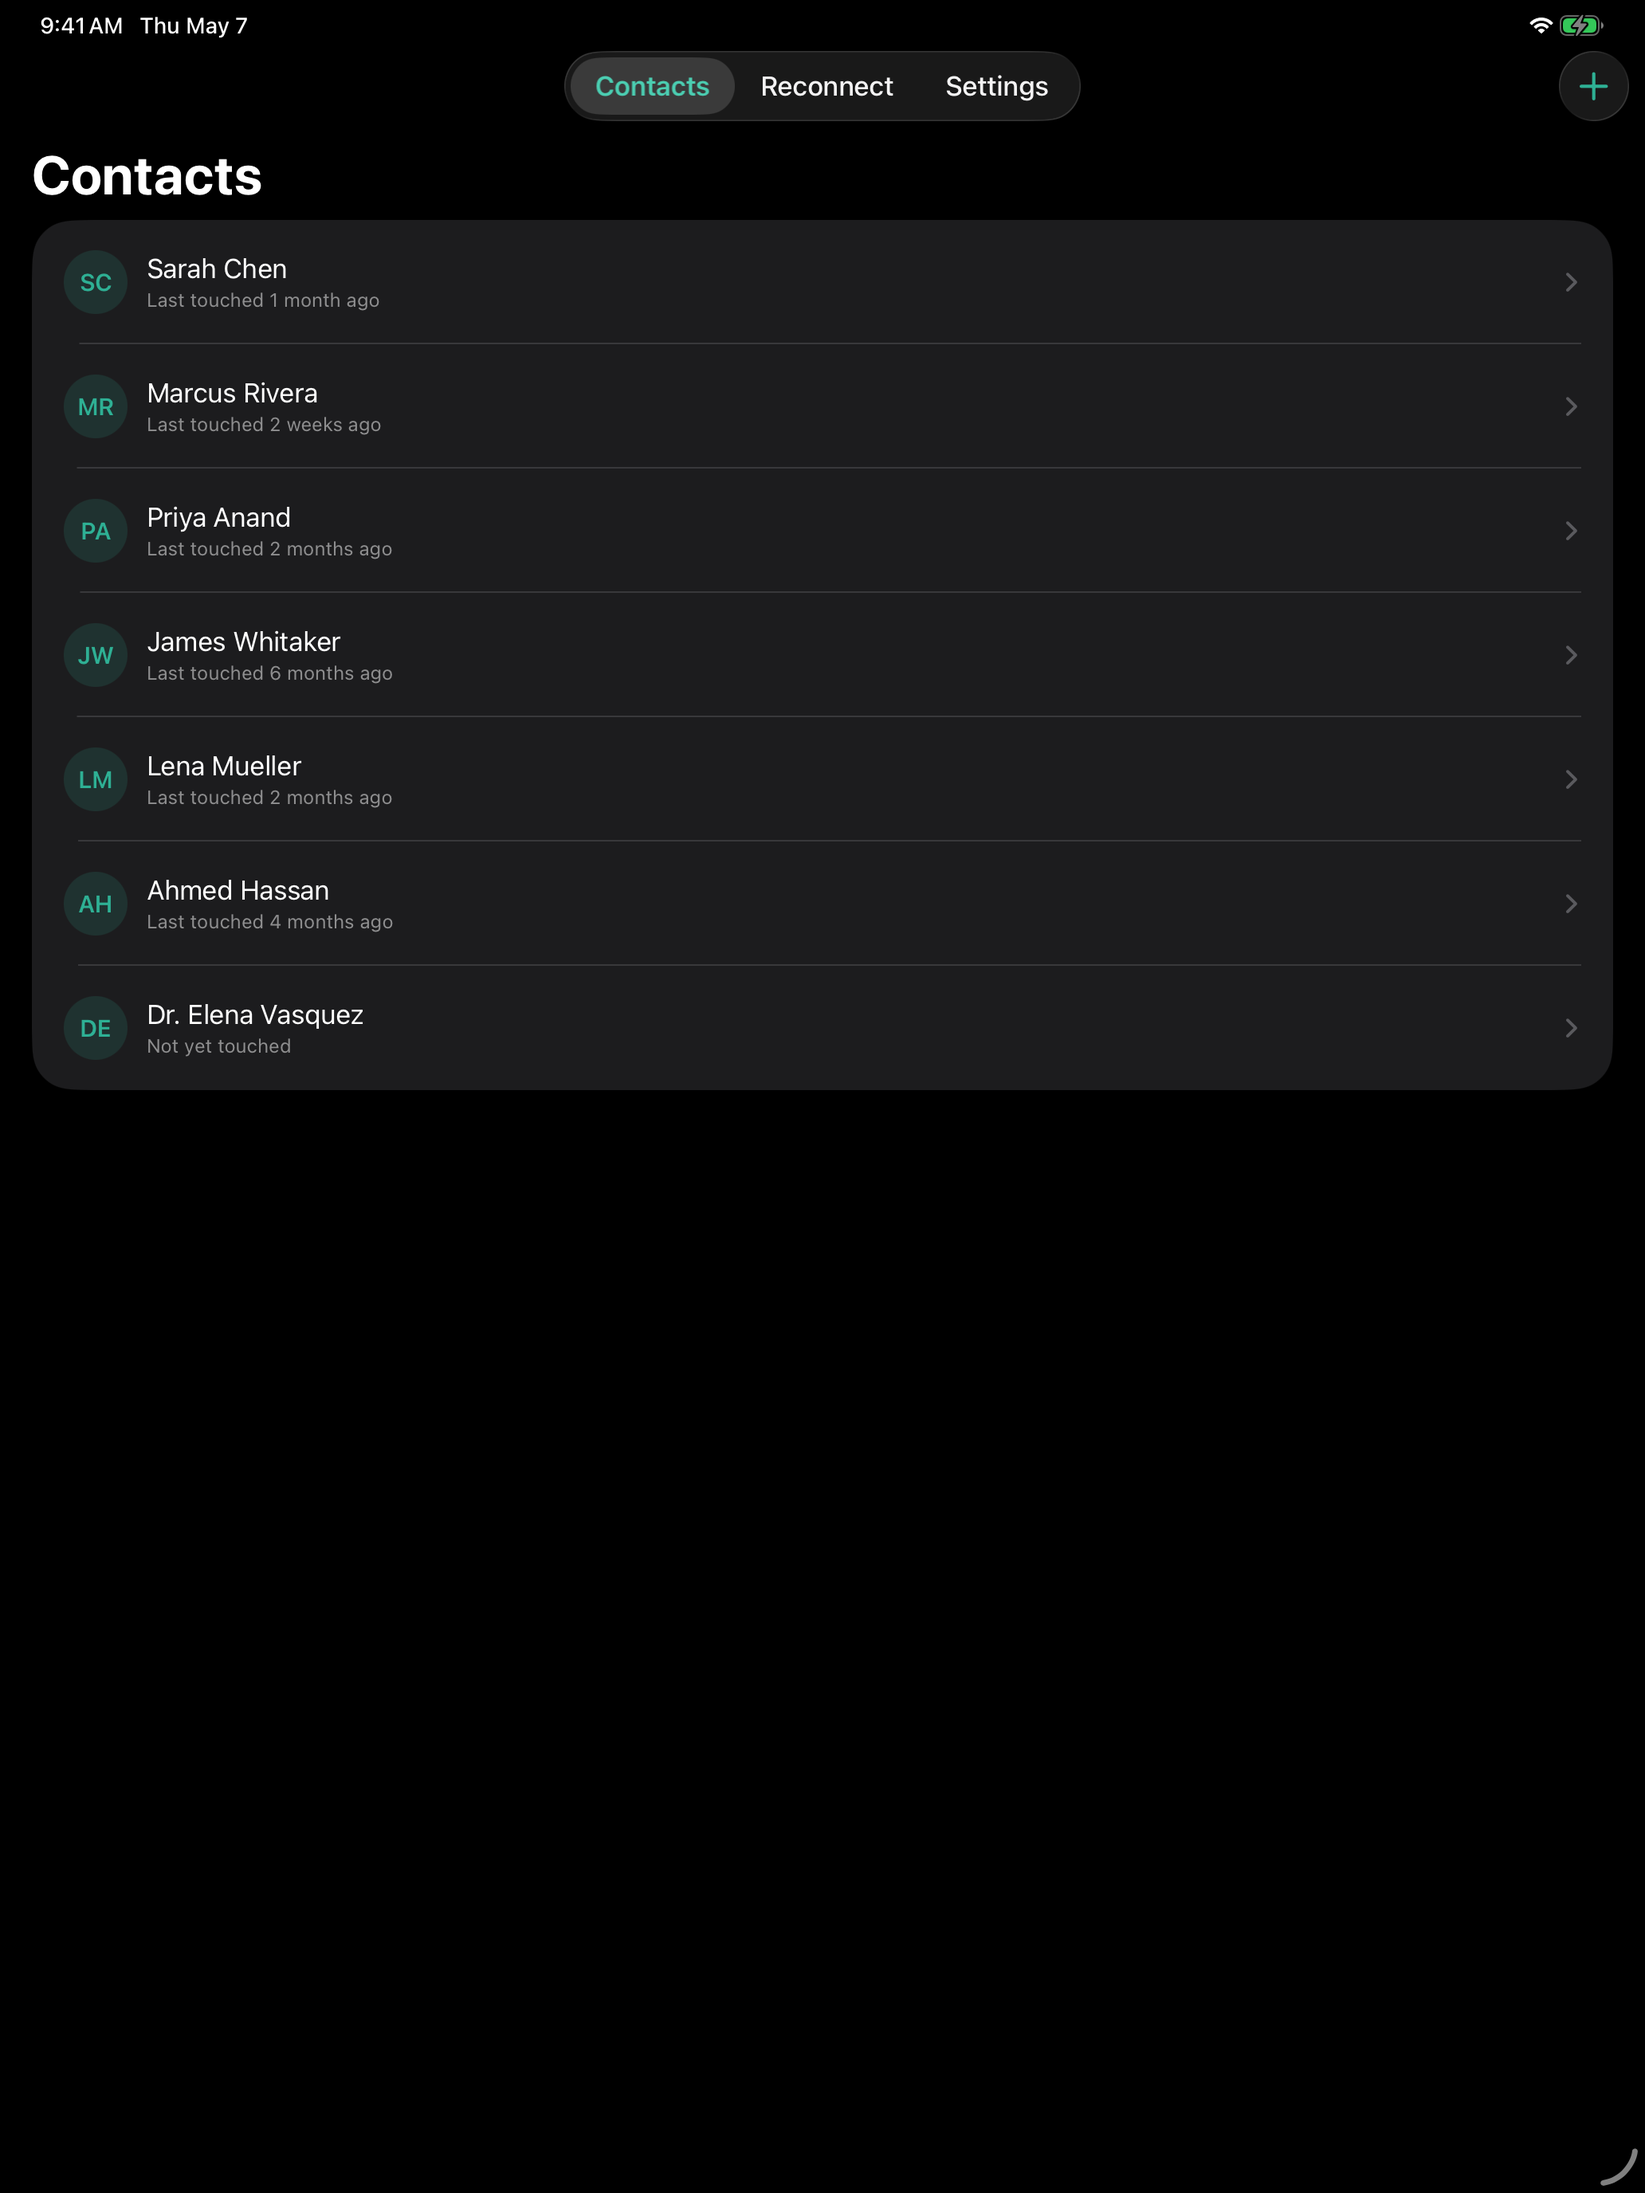
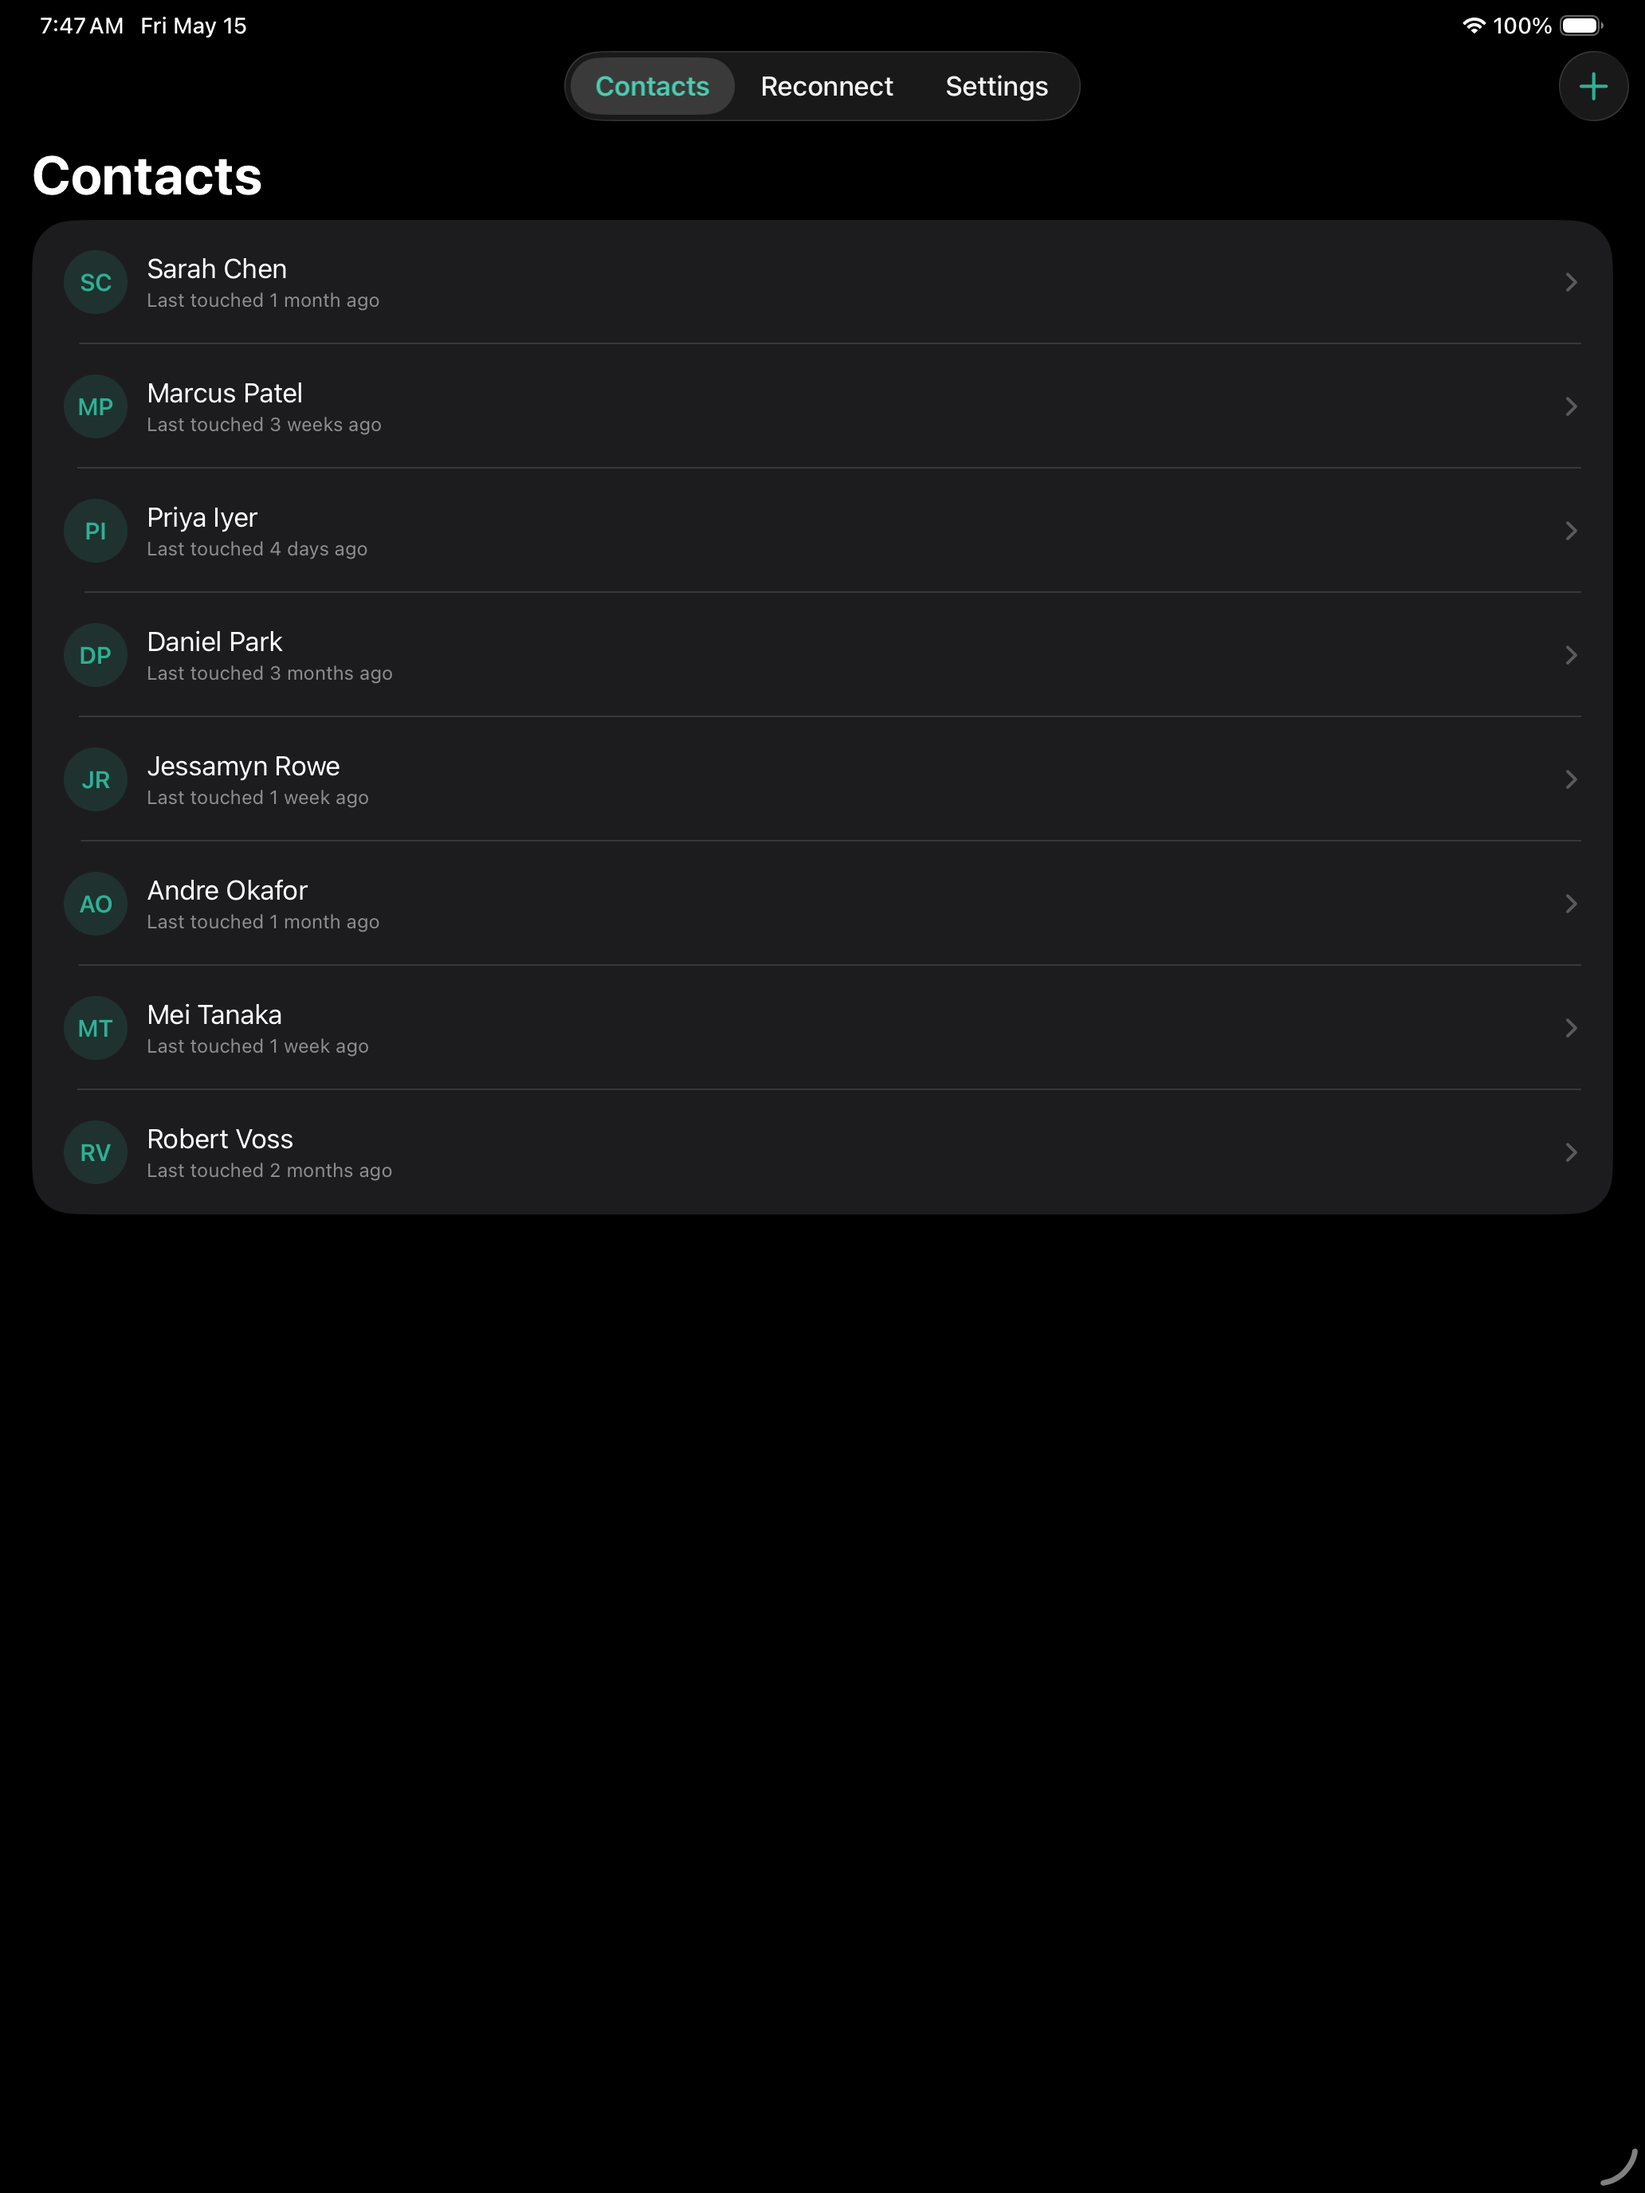
v1.1 screenshots (re-shot from Release build) + screenshot harness flags
10 fresh screenshots captured from Debug sim builds with
RELATIONOS_HIDE_DEBUG_SECTION=1 (via SIMCTL_CHILD_) so the Settings
Developer section is hidden — that DEBUG section was a 2.3.3
audit-flagged element in the v1.0 screenshots.

Each screen captured in trial-active state (Pro free, 14 days left):
- 01-contacts: 8 seeded contacts with realistic last-touched spread
- 02-reconnect: Daily Reconnect with cooling-relationships sort
- 03-settings: Pro free banner + Version 1.1 + Privacy/Terms links
- 04-paywall: "Unlock RelationOS Pro" with new in-trial banner +
  "Subscribe annually" CTA + "Starts after your 14-day Pro trial ends"
  microcopy (replaces v1.0's stale "Start 14-day free trial")
- 05-contacts-dark: dark-mode variant

iPhone 6.9" @ 1320x2868, iPad 13" @ 2064x2752 (ASC required sizes).

SettingsView.swift gains a RELATIONOS_HIDE_DEBUG_SECTION env-var hook
(#if DEBUG gated) so future screenshot passes can suppress the
Developer section without rebuilding Release. Stripped from Release;
not in the shipping build 5 IPA.

The old v1.0 screenshots are kept under screenshots.v1.0.bak/ for one
release-cycle reference and .gitignored.

diff --git a/RelationOS/Features/Settings/SettingsView.swift b/RelationOS/Features/Settings/SettingsView.swift
@@ -10,6 +10,17 @@ struct SettingsView: View {
     @State private var confirmingDelete = false
     @State private var didDeleteTrigger = 0
 
+    // DEBUG-only: a launch argument `RELATIONOS_SCREENSHOT_PAYWALL=1`
+    // (env var or `-RELATIONOS_SCREENSHOT_PAYWALL 1`) auto-opens the
+    // paywall on Settings appear. Used by the screenshot harness.
+    // Stripped from Release builds via #if DEBUG.
+    #if DEBUG
+    private var shouldAutoShowPaywall: Bool {
+        ProcessInfo.processInfo.environment["RELATIONOS_SCREENSHOT_PAYWALL"] == "1"
+            || ProcessInfo.processInfo.arguments.contains("-RELATIONOS_SCREENSHOT_PAYWALL")
+    }
+    #endif
+
     var body: some View {
         Form {
             premiumSection
@@ -17,10 +28,17 @@ struct SettingsView: View {
             privacySection
             aboutSection
             #if DEBUG
-            debugSection
+            if ProcessInfo.processInfo.environment["RELATIONOS_HIDE_DEBUG_SECTION"] != "1" {
+                debugSection
+            }
             #endif
         }
         .navigationTitle("Settings")
+        #if DEBUG
+        .onAppear {
+            if shouldAutoShowPaywall { showPaywall = true }
+        }
+        #endif
         .sheet(isPresented: $showPaywall) {
             PaywallView(triggeringFeature: .unlimitedContacts)
                 .environmentObject(purchases)
